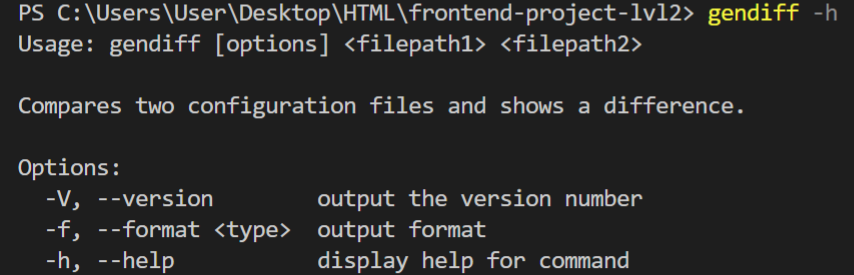
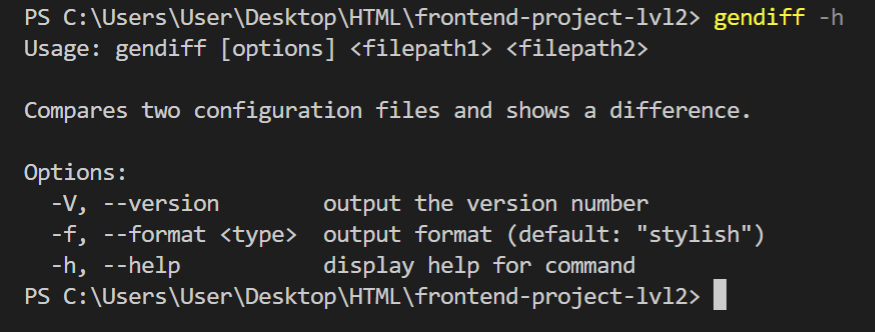
Обновил пример  меню gendiff
Обновил пример  меню gendiff

diff --git a/README.md b/README.md
@@ -8,7 +8,7 @@ Gendiff может сравнивать структуру двух файлов
 
 
 ### Меню
-<img  src ='.src\img\menu.PNG'  alt='menu'>
+<img  src ='.\src\img\menu.PNG'  alt='menu'>
 
 `<type>` - plain, json, stylish <br>
 *Формат stylish является значением по умолчанию
